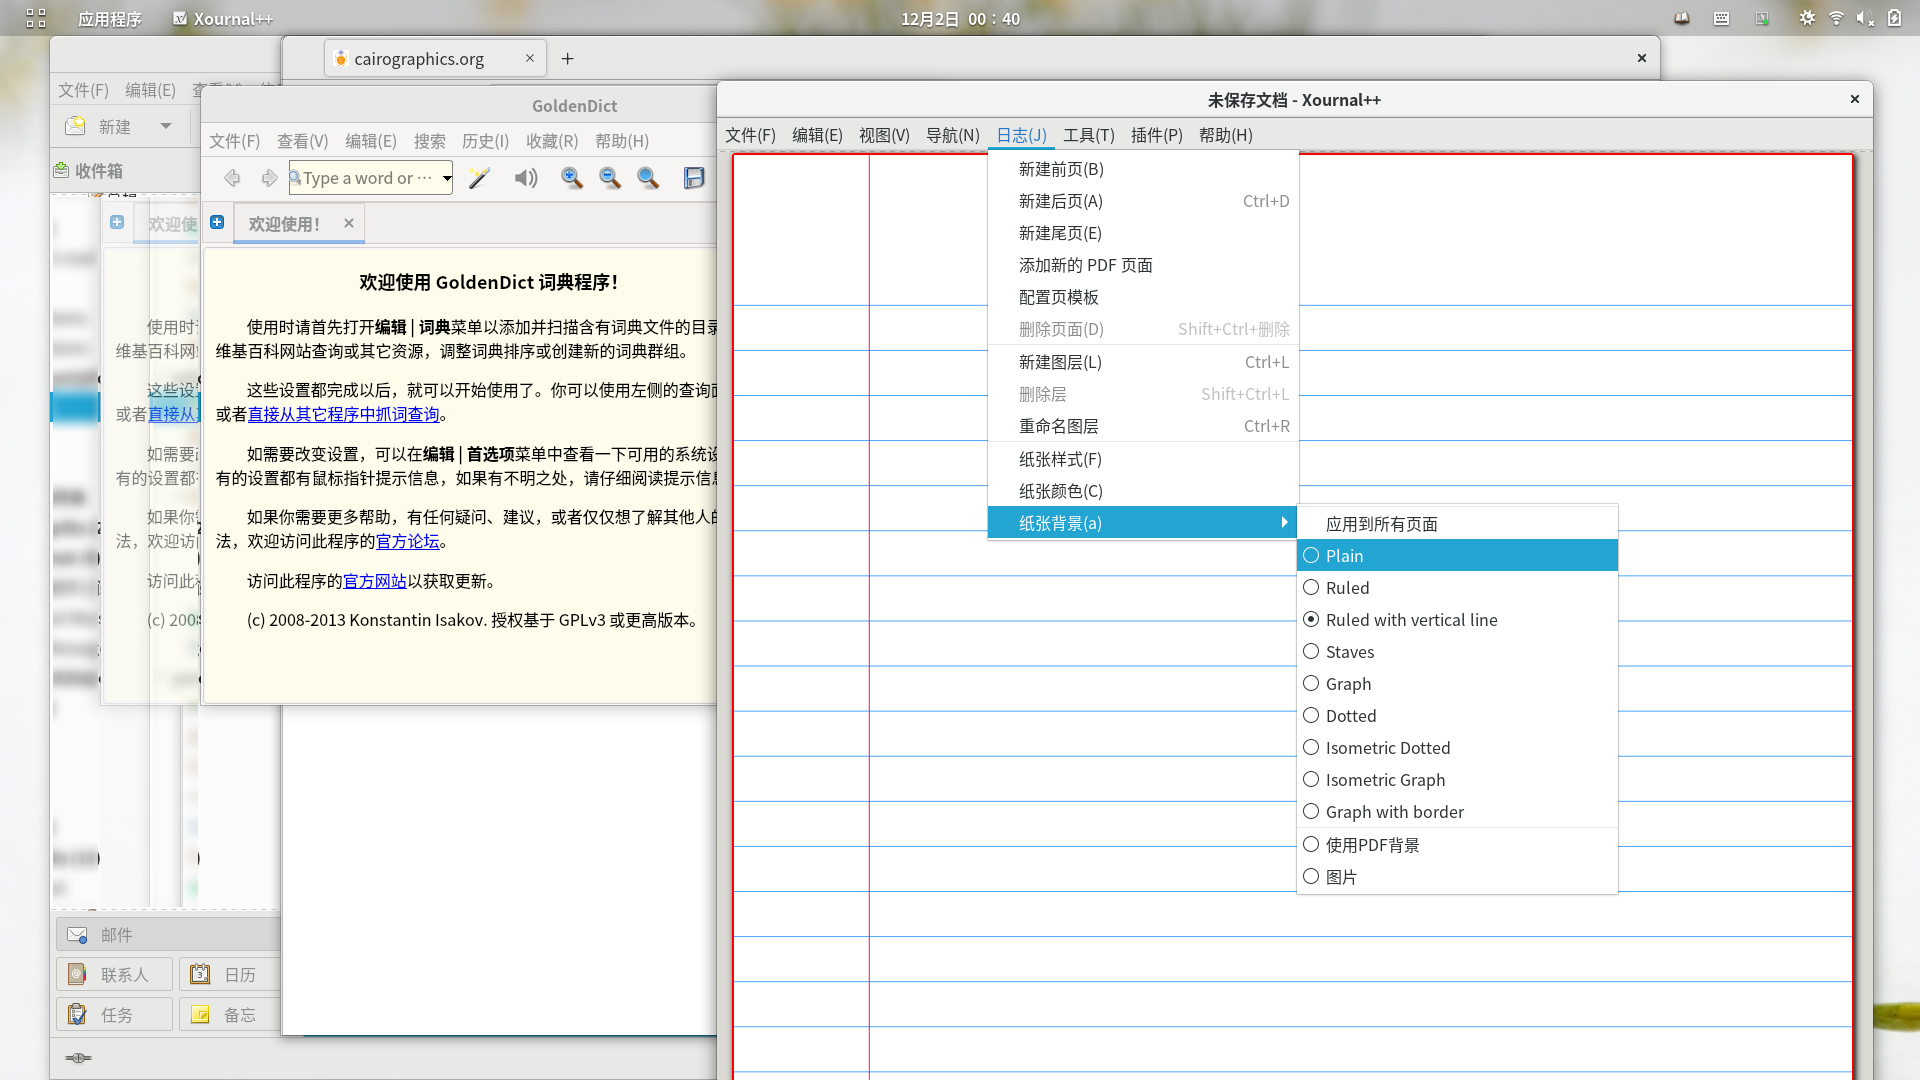
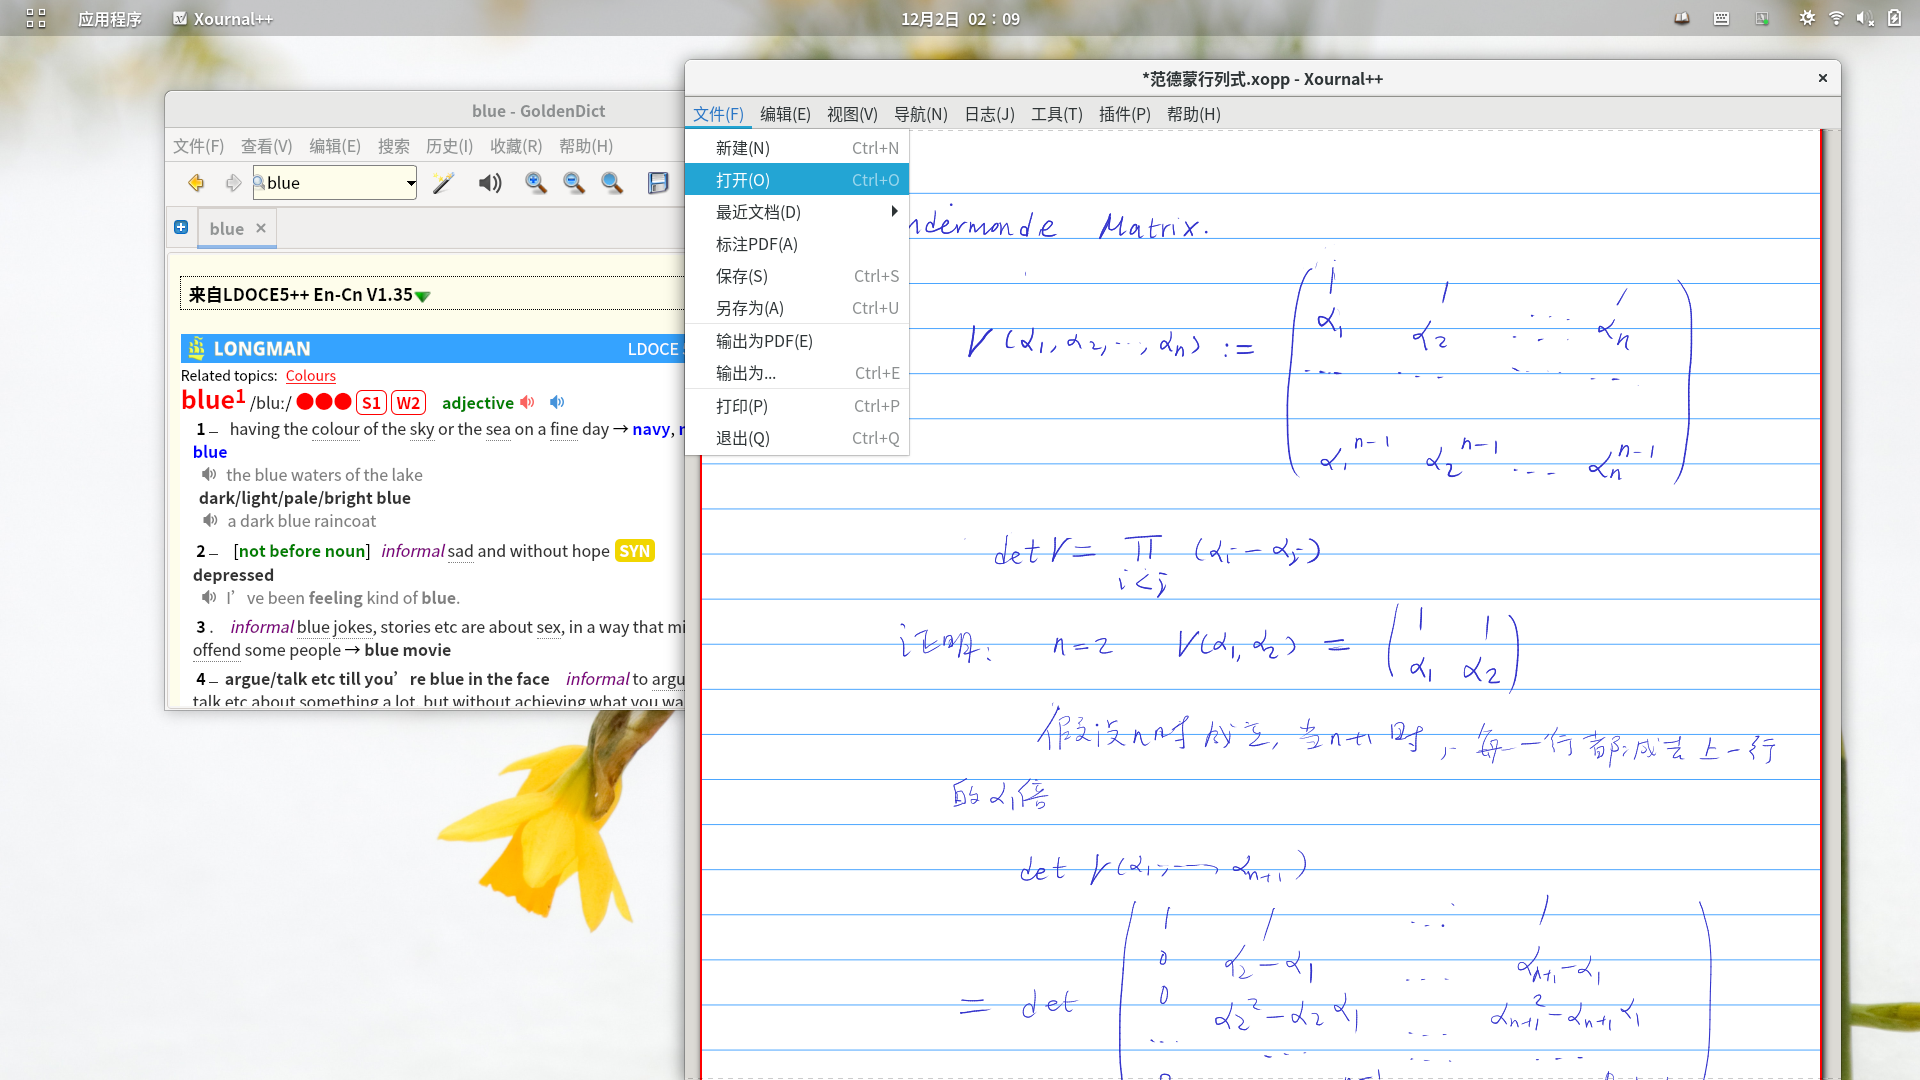
tabetic-crowstone-surchargers-scrupula-circulable-anglehookmisappropriationmonobromoacetoneby-blowbeautifying

diff --git a/_posts/2021-12-02-ambiance-gtk-theme-modern-version.md b/_posts/2021-12-02-ambiance-gtk-theme-modern-version.md
@@ -18,7 +18,7 @@ The revived ambiance theme is very greyish and not flat (looks like a revival of
 
 ### Screenshots:
 ![ambiance-gtk-theme-screenshot-1](../../../static/2021-12-02/ambiance-gtk-theme-screenshot-1.png)
-*From the top to bottom: [xournalpp](https://xournalpp.github.io/), [goldendict](http://goldendict.org/), [Firefox](https://www.mozilla.org/firefox/), [Evolution](https://wiki.gnome.org/Apps/Evolution)*
+*From the top to bottom: [xournalpp](https://xournalpp.github.io/), [goldendict](http://goldendict.org/)*
 
 ![ambiance-gtk-theme-screenshot-2](../../../static/2021-12-02/ambiance-gtk-theme-screenshot-2.png)
 *From the top to bottom:[GNOME Control Center](https://gitlab.gnome.org/GNOME/gnome-control-center), [Lyx](https://www.lyx.org/), [GNOME Files](https://wiki.gnome.org/Apps/Files), [Firewalld](https://firewalld.org/)*
